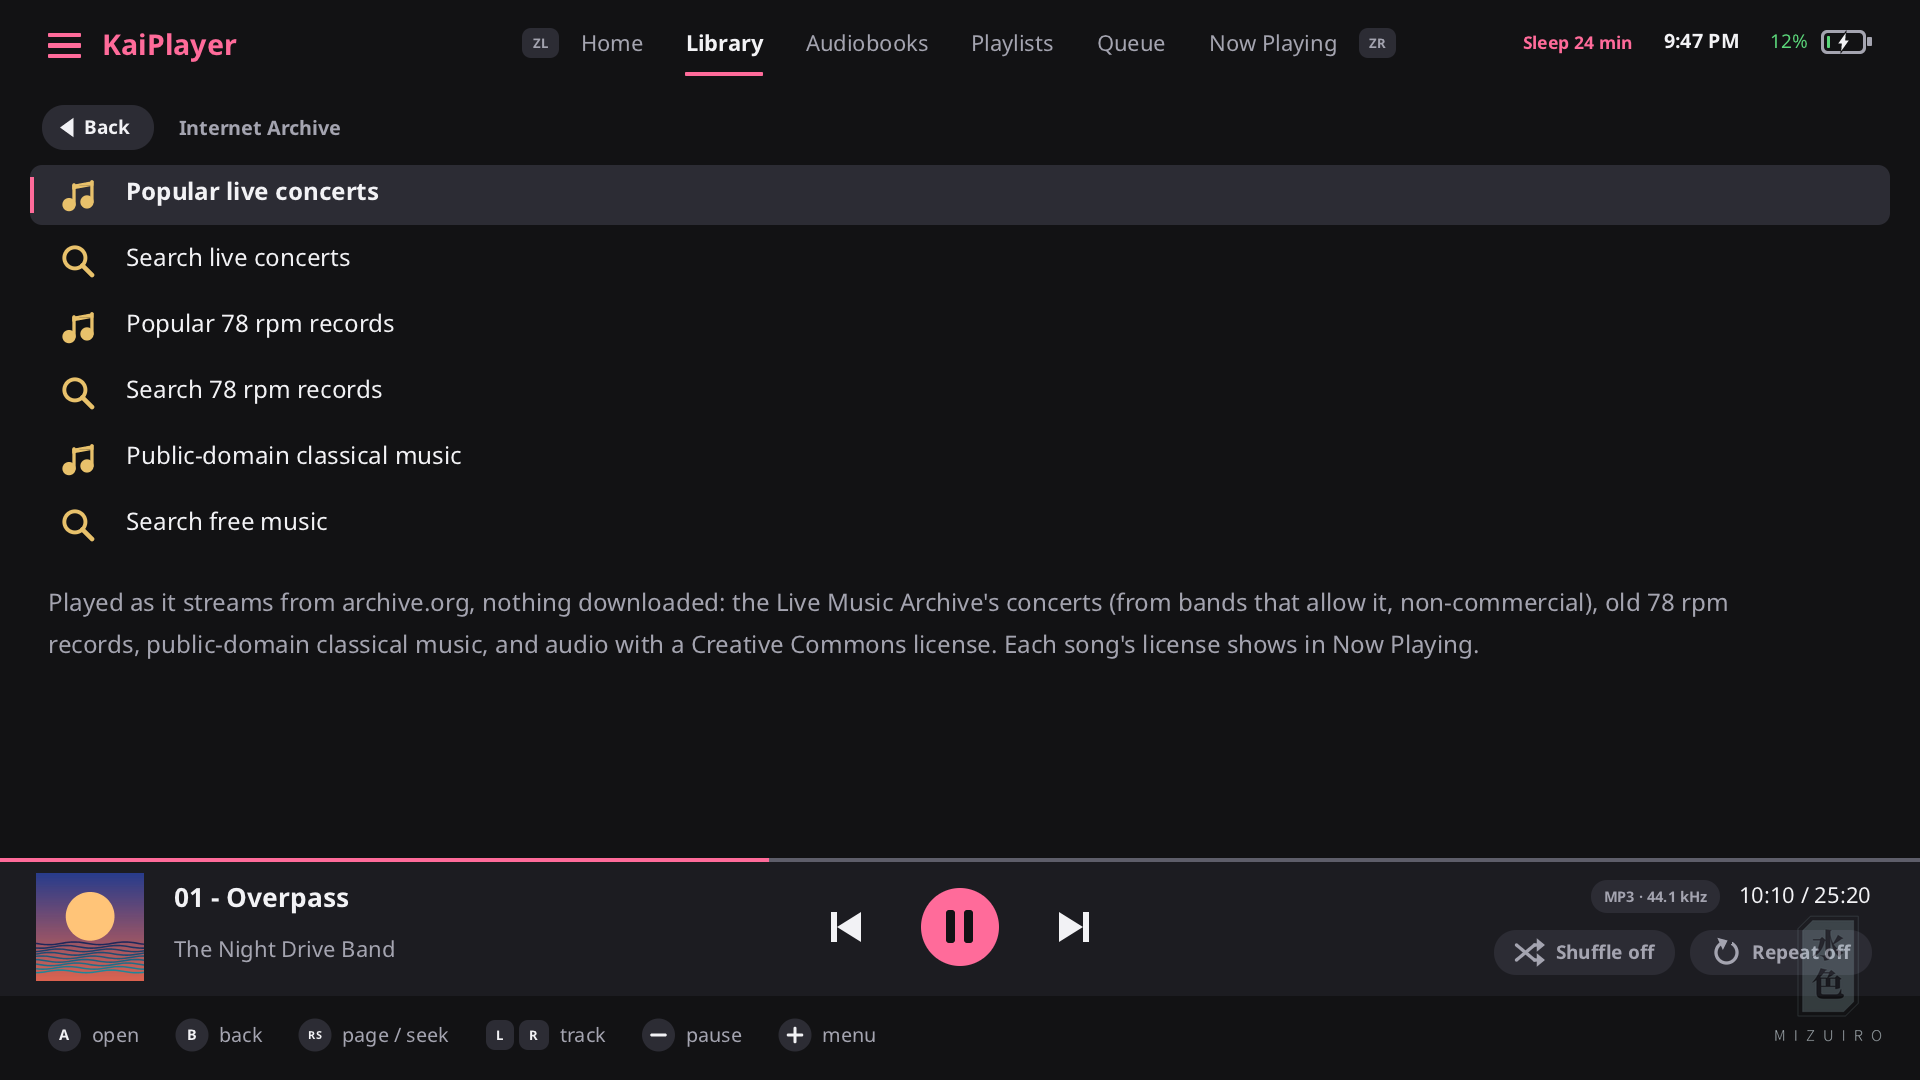
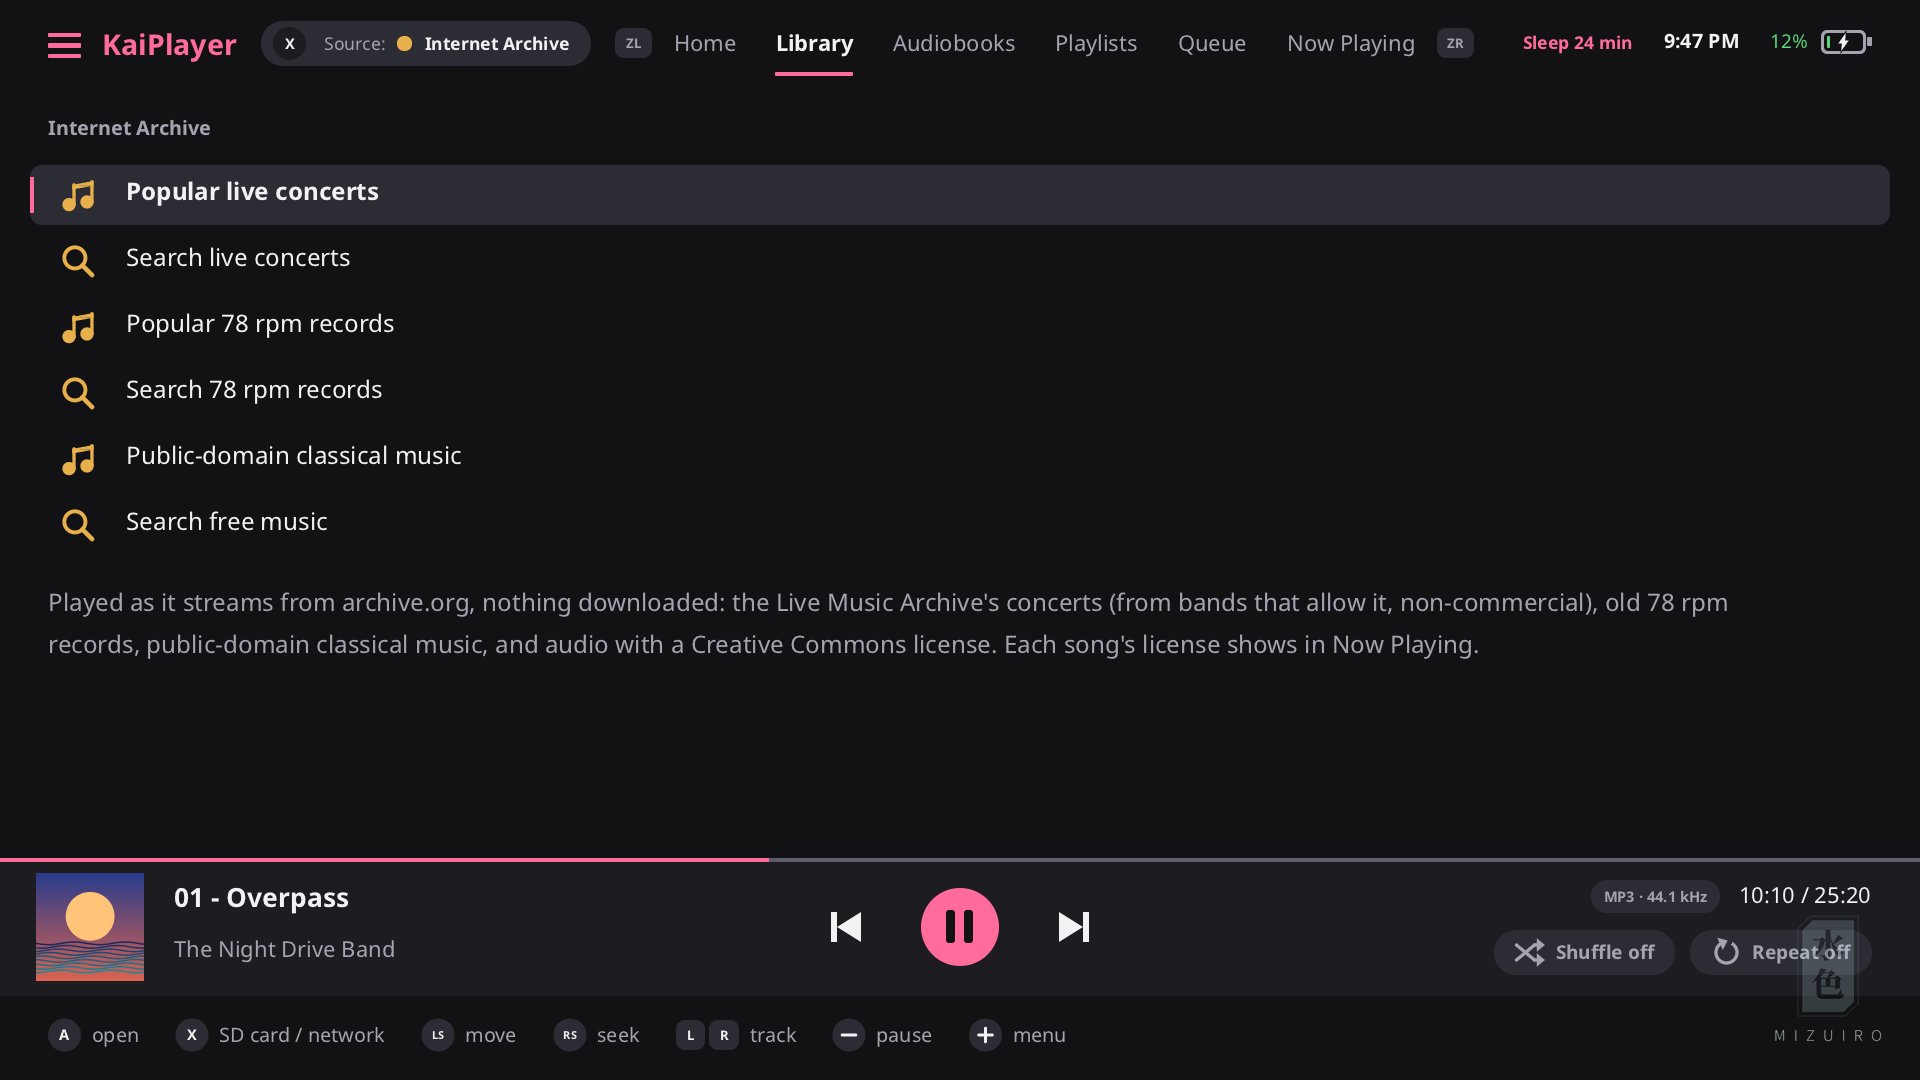
docs: the Internet Archive as a source, and Show 50 more
How to go to it, what each tab shows while it's the source, its Settings
page and color, and the next 50; the README, Library, controls, Settings,
Navidrome and limitations pages say it's in the cycle of sources. New
screenshots (made-up content, signed). STREAMING-STATUS.md: the owner's
decisions of 2026-11-27.

diff --git a/docs/internet-archive.md b/docs/internet-archive.md
@@ -3,8 +3,9 @@
 [Back to the README](../README.md)
 
 KaiPlayer can play music from the [Internet Archive](https://archive.org)
-(archive.org) as it streams, with nothing to set up: no account and no key.
-The Archive is best for:
+(archive.org) as it streams. It's a source of its own, next to the SD card, a
+network folder and a Navidrome server, and it needs nothing set up: no
+account and no key. The Archive is best for:
 
 - **Live concerts** from the Live Music Archive (`etree`): hundreds of
   thousands of recordings by bands that allow their shows to be taped and
@@ -12,20 +13,43 @@ The Archive is best for:
 - **78 rpm records**: old shellac recordings, transferred by the Archive's
   78 rpm collection.
 - **Public-domain classical music**.
-- **Free music**: any audio with a declared Creative Commons or public-domain
-  license.
-
-It isn't a library source like the SD card, a network folder or Navidrome:
-the Archive is far too big to read whole, so it's browsed, a page at a time.
+- **Free music**: any audio with a declared Creative Commons license.
 
 | Its first page | A concert's songs |
 |----------------|-------------------|
 | ![The Internet Archive's first page](screenshots/internet_archive.png) | ![A concert's songs](screenshots/internet_archive_concert.png) |
 
-## Using it
+| Home while it's the source | Its place in Settings |
+|----------------------------|-----------------------|
+| ![Home with the Internet Archive as the source](screenshots/internet_archive_home.png) | ![Settings with the Internet Archive's page](screenshots/internet_archive_settings.png) |
 
-In **Library**, the last row of the first page is **Internet Archive**. Its
-page has:
+## Going to it
+
+As with the other sources: **X** on Home or on Library's first page, a tap on
+the pill next to KaiPlayer's name, or **+ → Go to the Internet Archive**. The
+pill then says **Internet Archive**, with its amber dot (another color can be
+chosen in **+ → Settings → Internet Archive → Color**). The same ways go on to
+the next source: **SD card**, **network folder**, **Navidrome** (those set
+up), **Internet Archive**, then the SD card again.
+
+The Archive is far too big to read whole as a library, so it isn't read into
+Artists, Albums and Songs: it's browsed, a page at a time. While it's the
+source:
+
+| Tab | What it shows |
+|-----|---------------|
+| **Home** | What the Archive has, and **Browse the Internet Archive**, which opens Library (**A**, or a tap) |
+| **Library** | The Archive's own first page (below), instead of Artists, Albums, Songs and Folders |
+| **Audiobooks** | Your audiobooks, as with any source (they aren't the Archive's) |
+| **Playlists**, **Queue**, **Now Playing** | As always: playlists can mix the Archive's songs with the others' |
+
+The other sources' libraries aren't shown while the Archive is, and the
+Archive doesn't show inside them. **+ → Update the library** isn't offered for
+it: each page asks the Archive when it opens.
+
+## Its pages
+
+Library's first page has:
 
 | Row | What it shows |
 |-----|---------------|
@@ -37,11 +61,12 @@ page has:
 | **Search free music** | Any audio with a Creative Commons license that matches your words |
 
 Each list shows 50 items (a concert, a record, an album), with its cover, its
-artist and its date. **A** on one opens its songs; **A** on a song plays the
-item from there, **X** plays it all and **Y** shuffles it. **→** or the small
-plus at a song's end adds it to a playlist, and **B** (or **< Back**) goes
-back. Everything works by touch too: tap a row to open or play it, tap
-**< Back**, tap the plus.
+artist and its date; when the Archive has more, **Show 50 more** at the end
+adds the next 50 (up to 500). **A** on an item opens its songs; **A** on a
+song plays the item from there, **X** plays it all and **Y** shuffles it.
+**→** or the small plus at a song's end adds it to a playlist, and **B** (or
+**< Back**) goes back. Everything works by touch too: tap a row to open or
+play it, tap **< Back**, tap the plus.
 
 While a page is asked for it says **Asking...**. If the Archive doesn't
 answer, the page says why, and its **Try again** row asks again.
@@ -72,9 +97,10 @@ uploaded the item.
 ## In playlists and the queue
 
 Playlists can hold the Archive's songs, as `ia:/<item>/<license>/<file>`
-lines in the `.m3u8` (other players won't play them). They play whenever the
-console's network is up. The queue is restored after a restart too: once you
-have opened the Internet Archive, KaiPlayer starts the network when it starts.
+lines in the `.m3u8` (other players won't play them). They play whichever
+source is shown, whenever the console's network is up. The queue is restored
+after a restart too: once you have used the Internet Archive, KaiPlayer starts
+the network when it starts.
 
 The song lists name the songs as the Archive's pages do. After KaiPlayer is
 restarted, a playlist's Archive songs are named from their files' own tags
@@ -88,8 +114,8 @@ restarted, a playlist's Archive songs are named from their files' own tags
 - **No downloads** to the card: songs are read as they play.
 - **One format per item**: its MP3s (VBR, else 128 or 64 kbps), else Ogg
   Vorbis, else FLAC. Up to 500 songs an item.
-- **50 items a list**, the most downloaded first (searches: the best match
-  first). There's no "more" yet: search with more words to narrow it.
+- **50 items at a time**, up to 500 with **Show 50 more**; the most
+  downloaded first (searches: the best match first).
 - **The Archive can be slow** to answer at times. If it's busy, wait a
   minute: KaiPlayer asks only when you open a page.
 - KaiPlayer isn't affiliated with the Internet Archive.

diff --git a/STREAMING-STATUS.md b/STREAMING-STATUS.md
@@ -7,11 +7,15 @@ what's left, so the work can be picked up again. Not for the release notes.
 
 - **2026-11-27, owner: Jamendo is dropped.** Only the Internet Archive is built. The Jamendo code,
   strings, fixtures and docs from the first commits were removed in later commits (history kept).
-  With one source that needs no key or account, there is **no Settings page** for it (Navidrome
-  and the network folder have one because they need an address and a sign-in; the Archive needs
-  nothing).
+  It needs no key or account (its Settings page, added later, has its color only).
 - **2026-11-27, owner: show what the Archive is good for**: the Live Music Archive's concerts, 78 rpm
   records, public-domain classical music, and search.
+- **2026-11-27, owner: keep the 78 rpm rows.**
+- **2026-11-27, owner: the Internet Archive is a source of its own**, switched to as the SD card, the
+  network folder and Navidrome are (the pill, X on Home and Library's first page, a tap on the pill,
+  **+ → Go to the Internet Archive**), with its own color (amber, changeable as the others'), and not a
+  row in Library (it showed inside the card's and Navidrome's libraries). Its Settings page has its
+  Color only, as the per-source color convention asks. "Show 50 more" added (up to 500).
 
 ## What the Internet Archive's terms say (read 2026-11-26)
 
@@ -49,14 +53,21 @@ dated 31 Dec 2014), and the developer portal's "Bots, LLMs, and Automated Access
 Copied from Navidrome where it fits; Navidrome's library is read whole into the catalog, which the
 Archive can't be, so it's browsed:
 
-- **Where**: a row on the Library tab's first page, after Folders: **Internet Archive**, whatever
-  library source is shown (it doesn't change it; Home and the catalog stay the library's). Its pages
-  use the Library's page stack: `< Back`, B, the rows, the `+` button on song rows, X plays / Y
-  shuffles an item, A opens or plays; all by touch too.
+- **A source**: `LIBRARY_ARCHIVE`, always ready (nothing to set up), last in X's cycle: SD card,
+  network folder, Navidrome (those set up), Internet Archive. `settings.txt` keeps it
+  (`library_source=archive`, `archive_color=`). It has no catalog: switching to it reads nothing,
+  and the card's catalog stays loaded underneath (switching back reads it as usual).
+- **Its tabs** (decided): **Library** = the Archive's own first page (the six rows), as Library's first
+  page (no Back; X switches source there, as on the others' first page); its pages use the Library's
+  page stack: `< Back`, B, the `+` button on song rows, X plays / Y shuffles an item, A opens or plays,
+  all by touch too. **Home** = what the Archive has and one row, "Browse the Internet Archive", that
+  opens Library (A or a tap); X switches source as usual. **Audiobooks** unchanged (books aren't a
+  source's). **Playlists, Queue, Now Playing** as always. **+ → Update the library** isn't offered
+  under it (and Settings' row says there's nothing to update).
 - **Its first page**: Popular live concerts, Search live concerts, Popular 78 rpm records, Search 78
   rpm records, Public-domain classical music, Search free music. An item opens its songs (the item's
   VBR MP3 files, else 128/64 kbps MP3, else Ogg, else FLAC).
-- **50 results a page** (no "more" yet).
+- **50 results a page**, and a **Show 50 more** row while the Archive has more (up to 500).
 - **Songs are locations**, as Navidrome's `sub:/`: `ia:/<identifier>/<license>/<file, percent-encoded>`;
   covers `ia:/<identifier>/cover/<px>.jpg` (archive.org/services/img). The license code (`by-sa-4.0`,
   `cc0-1.0`, `pd`, `lma`, `78rpm`, `-`) is in the location, so a playlist or the resumed queue still
@@ -70,8 +81,7 @@ Archive can't be, so it's browsed:
 
 ## Owner questions
 
-None open. (Jamendo's client-ID question is moot; the Settings row question is answered by having
-no Settings page.)
+None open.
 
 ## Status
 
@@ -84,6 +94,7 @@ no Settings page.)
 - [x] Strings in the 8 language files; lang check 0/0/0.
 - [x] Preview scenes (made-up content).
 - [x] Docs: docs/internet-archive.md, README, library, controls, limitations, legal, building.
+- [x] The Archive as a source (2026-11-27): pill, X, + menu, its color and Settings page, Home, "more".
 - [ ] Console test (owner).
-- Left for later: a "more" row (the next 50), a cover for items without one, the Archive's own
-  playlists/collections browsing beyond these six rows.
+- Left for later: a cover for items without one; browsing the Archive's collections beyond these six
+  rows.

diff --git a/docs/controls.md b/docs/controls.md
@@ -56,13 +56,13 @@ list. **−**, **L** and **R** also pause and change the song from anywhere.
 | Playlists   | New playlist, rename or delete a playlist; inside a playlist, move or remove a song |
 | Queue       | Save the whole queue as a playlist |
 | Now Playing, an Internet Archive page | About this song: its artist, license and page on archive.org (for the Archive's songs) |
-| All         | Update the library, Go to the … library (with a network folder or a Navidrome server set up), Turn screen off (while music plays), Settings, and Exit KaiPlayer (asks you to confirm) |
+| All         | Update the library (not for the Internet Archive), Go to the … (the next source), Turn screen off (while music plays), Settings, and Exit KaiPlayer (asks you to confirm) |
 
 **+ → Update the library** checks the music folder again after you add
 music (see [Library](library.md#library)). **+ → Go to the … library**
-switches to the next library set up, as **X** does on Home, and opens Library
-on it; the item says which one (**SD card**, **network folder** or
-**Navidrome**).
+switches to the next source, as **X** does on Home, and opens Library on it;
+the item says which one (**SD card**, **network folder**, **Navidrome** or
+**Internet Archive**).
 
 Adding songs to a playlist isn't in the menu: use the add-to-playlist
 buttons, a list with a small plus (see [Playlists](playlists.md)).
@@ -91,7 +91,7 @@ Everything can also be done by touch:
   Repeat buttons.
 - **Menu:** tap the ☰ button or the KaiPlayer title in the top left to open
   the + menu. Tap an item to choose it, or outside the menu to close it.
-- **Library source:** with a network folder or a Navidrome server set up,
-  tap the pill next to the KaiPlayer title to switch to the next library, and
+- **Library source:** tap the pill next to the KaiPlayer title to switch to
+  the next source (the Internet Archive is always one), and
   the pill at the top right (while a library on the network is read) to see
   that one.

diff --git a/docs/library.md b/docs/library.md
@@ -9,10 +9,12 @@ change it in **+ → Settings → Library → Music folder**. Without one, the S
 card's library is the whole card, and the pill says **SD card (whole card)**.
 
 The library can also come from a [network folder](network-folder.md) or a
-[Navidrome server](navidrome.md): with one set up, the pill next to
-KaiPlayer's name says which is shown. **X** on Home or on Library's first
-page, a tap on the pill, or **+ → Go to the … library** goes to the next one
-set up: **SD card**, **network folder**, **Navidrome**, and back.
+[Navidrome server](navidrome.md), and the music from the
+[Internet Archive](internet-archive.md), which needs nothing set up. The pill
+next to KaiPlayer's name says which is shown. **X** on Home or on Library's
+first page, a tap on the pill, or **+ → Go to the …** goes to the next one:
+**SD card**, **network folder**, **Navidrome** (those set up), **Internet
+Archive**, and back.
 
 ## Home
 
@@ -44,9 +46,6 @@ their covers, all on one screen:
 - **Songs:** every song by title.
 - **Folders:** the folders of your music folder, as they are on the card (or
   in the network folder).
-- **Internet Archive:** live concerts, 78 rpm records, public-domain classical
-  music and other free music from archive.org, played as it streams. See
-  [Internet Archive](internet-archive.md).
 
 Artists and albums come from the tags (album artist, artist, album, track
 and disc numbers, year), **not from the folder names**: a folder named

diff --git a/docs/settings.md b/docs/settings.md
@@ -2,8 +2,9 @@
 
 [Back to the README](../README.md)
 
-Open **+ → Settings**. It opens on six rows: **Library**, **Network
-folder**, **Navidrome**, **Playback**, **Display** and **About**.
+Open **+ → Settings**. It opens on seven rows: **Library**, **Network
+folder**, **Navidrome**, **Internet Archive**, **Playback**, **Display** and
+**About**.
 
 - **A** or **→** opens a page.
 - **B** (or the **Back** button) goes back, and **B** on the first page
@@ -27,6 +28,7 @@ folder**, **Navidrome**, **Playback**, **Display** and **About**.
 | Navidrome | Test the connection | **A** tries it, and says which server answered and how many songs it has, or what went wrong |
 | Navidrome | Certificate check | On (default), or Off for an `https://` server with its own certificate |
 | Navidrome | Forget this server | **A** removes the address and the sign-in |
+| Internet Archive | Color | Its own (amber, default), or one of the accent colors. Nothing else to set up: see [Internet Archive](internet-archive.md) |
 | Playback | Sleep timer | Off, or any number of minutes up to 600 |
 | Playback | Resume where you left off | Keep playing (default), Paused or Off |
 | Playback | Screen off while playing | Never (default), or after 1, 2, 5, 10 or 30 minutes without input |

diff --git a/docs/limitations.md b/docs/limitations.md
@@ -25,10 +25,11 @@
   take token sign-in (some with LDAP) can't be used. Its books from a library
   named `Audiobooks` also show among the music (those of a genre named so
   don't). See [Audiobooks](audiobooks.md).
-- The Internet Archive: 50 items a list (no "more" yet), its songs read as
-  they play (nothing kept on the card), and only the Live Music Archive, the
-  78 rpm collection and audio with a Creative Commons or public-domain
-  license are searched. See [Internet Archive](internet-archive.md).
+- The Internet Archive: up to 500 items a list (50 at a time), its songs read
+  as they play (nothing kept on the card), and only the Live Music Archive,
+  the 78 rpm collection and audio with a Creative Commons or public-domain
+  license are searched. It's browsed, not read into Artists, Albums and Songs,
+  so Home has no cards for it. See [Internet Archive](internet-archive.md).
 - DSD is converted to PCM (no native DSD and no DoP), and DST-compressed
   `.dff`, SACD `.iso` images and DSD in WavPack don't play. See
   [DSD](playback.md#dsd-dsf-dff).

diff --git a/README.md b/README.md
@@ -35,9 +35,10 @@ with nothing else to install.
   (SMB), or WebDAV, as a library of its own. [More](docs/network-folder.md)
 - **Music from a Navidrome server** (or any Subsonic server): its library,
   covers and play counts, playing the original files. [More](docs/navidrome.md)
-- **Music from the Internet Archive**, streamed with nothing to set up: the
-  Live Music Archive's concerts, 78 rpm records, public-domain classical music
-  and Creative Commons audio, each song with its license and its page.
+- **Music from the Internet Archive** as a source of its own, streamed with
+  nothing to set up: the Live Music Archive's concerts, 78 rpm records,
+  public-domain classical music and Creative Commons audio, each song with its
+  license and its page.
   [More](docs/internet-archive.md)
 - **Audiobooks** in a tab of their own: `.m4b` and folders of files, their
   chapters, each book going on where you left it, 30-second skips, 0.75x to 2x

diff --git a/docs/navidrome.md b/docs/navidrome.md
@@ -35,7 +35,7 @@ Then the pill next to KaiPlayer's name says **Navidrome**, with a blue dot,
 when its library is shown. **X** on **Home** or on **Library's first page**,
 a tap on the pill, or **+ → Go to the … library** goes to the next library
 that is set up:
-**SD card**, **Network folder**, **Navidrome**, then the SD card again.
+**SD card**, **Network folder**, **Navidrome**, **Internet Archive**, then the SD card again.
 
 - **Artists, Albums and Songs** come from the server. KaiPlayer reads them as
   soon as you sign in, and its library becomes the one shown; each time
